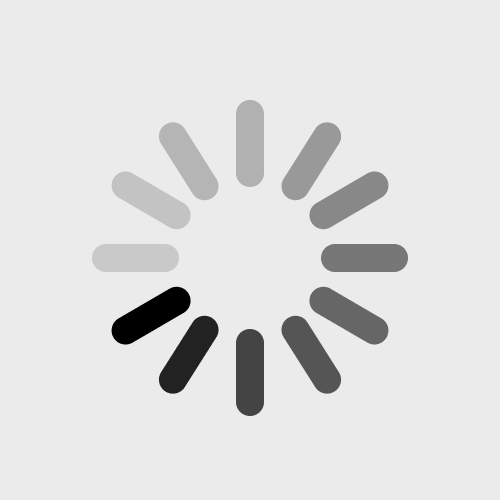
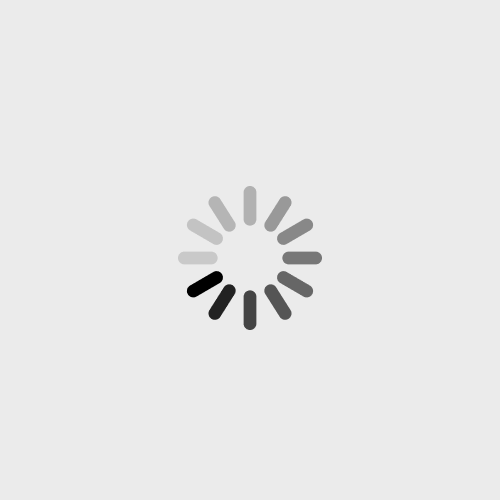
cc

Changed region(s): [[0.18, 0.18, 0.84, 0.84]]

diff --git a/admin/templates/library/wpr-templates-data.php b/admin/templates/library/wpr-templates-data.php
@@ -14,6 +14,20 @@ class WPR_Templates_Data {
 		$is_woo_active = is_plugin_active('woocommerce/woocommerce.php') ? 'true' : 'false';
 
 		return [
+			'news-magazine-x' => [ //TODO: News Magazine X Theme Banner (remove later)
+				'v1' => [
+					'name' => 'News Magazine X Theme',
+					'pages' => '',
+					'plugins' => '{}',
+					'tags' => 'blog news magazine',
+					'theme-builder' => false,
+					'woo-builder' => false,
+					'off-canvas' => false,
+					'price' => 'free',
+					'label' => 'trending',
+					'priority' => 1,
+				],
+			],
 			'newyear' => [
 				'v1' => [
 					'name' => 'Landing Page - New Year V1',
@@ -190,7 +204,21 @@ class WPR_Templates_Data {
 					'theme-builder' => true,
 					'woo-builder' => false,
 					'off-canvas' => true,
-					'price' => $is_pro_active ? 'free' : 'free',
+					'price' => $is_pro_active ? 'free' : 'pro',
+					'label' => 'new',
+					'priority' => 20,
+				],
+			],
+			'business-coaching' => [
+				'v1' => [
+					'name' => 'Business Coaching V1',
+					'pages' => 'home,about,courses,course-details,cart,services,service-details,blog,single-blog,contact,',
+					'plugins' => '{"woocommerce":'. $is_woo_active .'}',
+					'tags' => 'pro business coaching coach assistent industry sucess strategy leadership skills training planning partner expert mastery free personal coaching business training mentor consultation industry learning professional growth leadership skills productivity career strategy online courses lessons school study  tutor consultant life coach lifecoach',
+					'theme-builder' => true,
+					'woo-builder' => true,
+					'off-canvas' => false,
+					'price' => $is_pro_active ? 'free' : 'pro',
 					'label' => 'new',
 					'priority' => 20,
 				],
@@ -384,7 +412,7 @@ class WPR_Templates_Data {
 					'theme-builder' => true,
 					'woo-builder' => false,
 					'off-canvas' => true,
-					'price' => $is_pro_active ? 'free' : 'free',
+					'price' => $is_pro_active ? 'free' : 'pro',
 					'label' => 'new',
 					'priority' => 300,
 				],
@@ -535,7 +563,7 @@ class WPR_Templates_Data {
 					'theme-builder' => true,
 					'woo-builder' => true,
 					'off-canvas' => false,
-					'price' => $is_pro_active ? 'free' : 'free',
+					'price' => $is_pro_active ? 'free' : 'pro',
 					'label' => 'New',
 					'priority' => 4,
 				],
@@ -916,7 +944,7 @@ class WPR_Templates_Data {
 					'theme-builder' => true,
 					'woo-builder' => true,
 					'off-canvas' => true,
-					'price' => $is_pro_active ? 'free' : 'free',
+					'price' => $is_pro_active ? 'free' : 'pro',
 					'label' => 'new',
 					'priority' => 7,
 				],
@@ -984,7 +1012,7 @@ class WPR_Templates_Data {
 					'theme-builder' => true,
 					'woo-builder' => false,
 					'off-canvas' => true,
-					'price' => $is_pro_active ? 'free' : 'free',
+					'price' => $is_pro_active ? 'free' : 'pro',
 					'label' => 'new',
 					'priority' => 20,
 				],
@@ -1133,7 +1161,7 @@ class WPR_Templates_Data {
 					'theme-builder' => true,
 					'woo-builder' => true,
 					'off-canvas' => false,
-					'price' => $is_pro_active ? 'free' : 'free',
+					'price' => $is_pro_active ? 'free' : 'pro',
 					'label' => 'new',
 					'priority' => 92,
 				],
@@ -1188,7 +1216,7 @@ class WPR_Templates_Data {
 					'theme-builder' => true,
 					'woo-builder' => false,
 					'off-canvas' => false,
-					'price' => $is_pro_active ? 'free' : 'free',
+					'price' => $is_pro_active ? 'free' : 'pro',
 					'label' => 'new',
 					'priority' => 5,
 				],
@@ -1578,7 +1606,7 @@ class WPR_Templates_Data {
 					'theme-builder' => true,
 					'woo-builder' => false,
 					'off-canvas' => true,
-					'price' => $is_pro_active ? 'free' : 'free',
+					'price' => $is_pro_active ? 'free' : 'pro',
 					'label' => 'new',
 					'priority' => 15,
 				],
@@ -1674,7 +1702,7 @@ class WPR_Templates_Data {
 					'theme-builder' => true,
 					'woo-builder' => false,
 					'off-canvas' => true,
-					'price' => $is_pro_active ? 'free' : 'free',
+					'price' => $is_pro_active ? 'free' : 'pro',
 					'label' => 'new',
 					'priority' => 500,
 				],
@@ -1686,7 +1714,7 @@ class WPR_Templates_Data {
 					'theme-builder' => true,
 					'woo-builder' => false,
 					'off-canvas' => true,
-					'price' => $is_pro_active ? 'free' : 'free',
+					'price' => $is_pro_active ? 'free' : 'pro',
 					'label' => 'new',
 					'priority' => 501,
 				],
@@ -1880,13 +1908,13 @@ class WPR_Templates_Data {
 				'name' => 'Solar Energy 1',
 				'pages' => ['home','about','services','detail-service','projects','team','blog','contact'],
 				'preview' => ['home','about','services','detail-service','projects','team','blog','contact'],
-				'price' => $is_pro_active ? 'free' : 'free',
+				'price' => $is_pro_active ? 'free' : 'pro',
 			],
 			'solar-energy-v2' => [
 				'name' => 'Solar Energy 2',
-				'pages' => ['home','about-us','services','projects','team','faq','blog','contact,'],
-				'preview' => ['home','about-us','services','projects','team','faq','blog','contact,'],
-				'price' => $is_pro_active ? 'free' : 'free',
+				'pages' => ['home','about-us','services','projects','team','faq','blog','contact'],
+				'preview' => ['home','about-us','services','projects','team','faq','blog','contact'],
+				'price' => $is_pro_active ? 'free' : 'pro',
 			],
 			'hosting-v1' => [
 				'name' => 'Hosting V1',
@@ -1898,7 +1926,7 @@ class WPR_Templates_Data {
 				'name' => 'Electrician',
 				'pages' => ['home','about','services','service-details','gallery','blog','contact'],
 				'preview' => ['home','about','services','service-details','gallery','blog','contact'],
-				'price' => $is_pro_active ? 'free' : 'free',
+				'price' => $is_pro_active ? 'free' : 'pro',
 			],
 			'electrician-v2' => [
 				'name' => 'Electrician V2',
@@ -1928,7 +1956,7 @@ class WPR_Templates_Data {
 				'name' => 'Financial Services V1',
 				'pages' => ['home','about','services','resources','blog','faq','contact'],
 				'preview' => ['home','about','services','resources','blog','faq','contact'],
-				'price' => $is_pro_active ? 'free' : 'free',
+				'price' => $is_pro_active ? 'free' : 'pro',
 			],
 			'financial-services-v2' => [
 				'name' => 'Financial Services V2',
@@ -2012,7 +2040,7 @@ class WPR_Templates_Data {
 				'name' => 'Pet Shop V1',
 				'pages' => ['home','shop','cart','blog','about','contact'],
 				'preview' => ['home','shop','cart','blog','about','contact'],
-				'price' => $is_pro_active ? 'free' : 'free',
+				'price' => $is_pro_active ? 'free' : 'pro',
 			],
 			'car-rent-v1' => [
 				'name' => 'Car Rent V1',
@@ -2168,7 +2196,7 @@ class WPR_Templates_Data {
 				'name' => 'Software Company V1',
 				'pages' => ['home','about','services','portfolio','portfolio-details','blog','contact'],
 				'preview' => ['home','about','services','portfolio','portfolio-details','blog','contact'],
-				'price' => $is_pro_active ? 'free' : 'free',
+				'price' => $is_pro_active ? 'free' : 'pro',
 			],
 			'software-company-v2' => [
 				'name' => 'Software Company V2',
@@ -2216,7 +2244,7 @@ class WPR_Templates_Data {
 				'name' => 'Cleaning Service V1',
 				'pages' => ['home','about','services','blog','contact'],
 				'preview' => ['home','about','services','blog','contact'],
-				'price' => $is_pro_active ? 'free' : 'free',
+				'price' => $is_pro_active ? 'free' : 'pro',
 			],
 			'cleaning-v2' => [
 				'name' => 'Cleaning Service V2',
@@ -2300,7 +2328,13 @@ class WPR_Templates_Data {
 				'name' => 'Personal Coach V1',
 				'pages' => ['home','coaching','details','services','blog','contact'],
 				'preview' => ['home','coaching','details','services','blog','contact'],
-				'price' => $is_pro_active ? 'free' : 'free',
+				'price' => $is_pro_active ? 'free' : 'pro',
+			],
+			'business-coaching-v1' => [
+				'name' => 'Business Coaching V1',
+				'pages' => ['home','about','courses','cart','services','service-details','blog','contact'],
+				'preview' => ['home','about','courses','cart','services','service-details','blog','contact'],
+				'price' => $is_pro_active ? 'free' : 'pro',
 			],
 			'wedding-v1' => [
 				'name' => 'Wedding',

diff --git a/modules/woo-grid/widgets/wpr-woo-grid.php b/modules/woo-grid/widgets/wpr-woo-grid.php
@@ -2932,6 +2932,19 @@ class Wpr_Woo_Grid extends Widget_Base {
 				],
 			]
 		);
+		
+		$this->add_control(
+			'filters_hide_uncategorized',
+			[
+				'label' => esc_html__( 'Hide Uncategorized', 'wpr-addons' ),
+				'type' => Controls_Manager::SWITCHER,
+				'default' => 'yes',
+				'return_value' => 'yes',
+				'condition' => [
+					'filters_linkable!' => 'yes',
+				],
+			]
+		);
 
 		$this->add_control_filters_deeplinking();
 
@@ -9949,10 +9962,22 @@ class Wpr_Woo_Grid extends Widget_Base {
 
 		// All Filters
 		} else {
+			$exclude_ids = [];
+
+			if ( 'yes' === $settings['filters_hide_uncategorized'] ) {
+				$uncategorized = get_term_by('slug', 'uncategorized', $taxonomy);
+
+				if ($uncategorized && !is_wp_error($uncategorized)) {
+					$exclude_ids[] = $uncategorized->term_id;
+				}
+			}
+
 			$all_filters = get_terms([
-				'taxonomy' => $taxonomy,
-				'hide_empty' => false, // Include empty taxonomies
+				'taxonomy'   => $taxonomy,
+				'hide_empty' => false,
+				'exclude'    => $exclude_ids,
 			]);
+			
 			$parent_filters = [];
 
 			foreach ( $all_filters as $key => $filter ) {

diff --git a/modules/grid/widgets/wpr-grid.php b/modules/grid/widgets/wpr-grid.php
@@ -2942,6 +2942,19 @@ class Wpr_Grid extends Widget_Base {
 				],
 			]
 		);
+		
+		$this->add_control(
+			'filters_hide_uncategorized',
+			[
+				'label' => esc_html__( 'Hide Uncategorized', 'wpr-addons' ),
+				'type' => Controls_Manager::SWITCHER,
+				'default' => 'yes',
+				'return_value' => 'yes',
+				'condition' => [
+					'filters_linkable!' => 'yes',
+				],
+			]
+		);
 
 		$this->add_control_filters_deeplinking();
 
@@ -9380,10 +9393,22 @@ class Wpr_Grid extends Widget_Base {
 
 		// All Filters
 		} else {
+			$exclude_ids = [];
+
+			if ( 'yes' === $settings['filters_hide_uncategorized'] ) {
+				$uncategorized = get_term_by('slug', 'uncategorized', $taxonomy);
+
+				if ($uncategorized && !is_wp_error($uncategorized)) {
+					$exclude_ids[] = $uncategorized->term_id;
+				}
+			}
+
 			$all_filters = get_terms([
-				'taxonomy' => $taxonomy,
-				'hide_empty' => false, // Include empty taxonomies
+				'taxonomy'   => $taxonomy,
+				'hide_empty' => false,
+				'exclude'    => $exclude_ids,
 			]);
+
 			$parent_filters = [];
 
 			foreach ( $all_filters as $key => $filter ) {

diff --git a/modules/search/widgets/wpr-search.php b/modules/search/widgets/wpr-search.php
@@ -1157,17 +1157,20 @@ class Wpr_Search extends Widget_Base {
 
 		$this->add_control_show_password_protected();
 
-		$this->add_control(
-			'show_attachments',
-			[
-				'label' => esc_html__( 'Show Attachments', 'wpr-addons' ),
-				'type' => Controls_Manager::SWITCHER,
-				'condition' => [
-					'ajax_search' => 'yes'
-				],
-				'render_type' => 'template',
-			]
-		);
+		if ( current_user_can( 'administrator' ) ) {
+			$this->add_control(
+				'show_attachments',
+				[
+					'label' => esc_html__( 'Show Attachments', 'wpr-addons' ),
+					'description' => esc_html__( 'Include Media Files in Search Results', 'wpr-addons' ),
+					'type' => Controls_Manager::SWITCHER,
+					'condition' => [
+						'ajax_search' => 'yes'
+					],
+					'render_type' => 'template',
+				]
+			);
+		}
 
 		$this->add_control_open_in_new_page();
 

diff --git a/classes/utilities.php b/classes/utilities.php
@@ -939,11 +939,14 @@ class Utilities {
 		    $args = [ 'headers' => [ 'Authorization' => 'Basic ' . base64_encode( 'user:'. $api_key ) ] ];
 
 		    $response = wp_remote_get( $url, $args );
-		    $body = json_decode($response['body']);
-			 
-			if ( ! empty( $body->lists ) ) {
-				foreach ( $body->lists as $list ) {
-					$mailchimp_list[$list->id] = $list->name .' ('. $list->stats->member_count .')';
+
+			if ( !is_wp_error($response) ) {
+				$body = json_decode($response['body']);
+				
+				if ( ! empty( $body->lists ) ) {
+					foreach ( $body->lists as $list ) {
+						$mailchimp_list[$list->id] = $list->name .' ('. $list->stats->member_count .')';
+					}
 				}
 			}
 

diff --git a/wpr-addons.php b/wpr-addons.php
@@ -11,7 +11,6 @@
  * Elementor Pro tested up to: 3.25.2
  *
  * Text Domain: wpr-addons
- * Requires Plugins: elementor
 */
 
 if ( ! defined( 'ABSPATH' ) ) {
